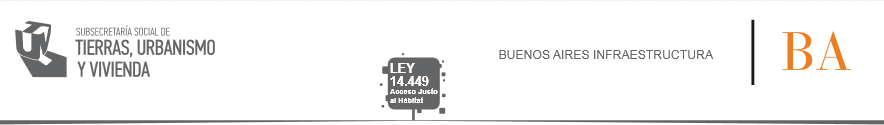
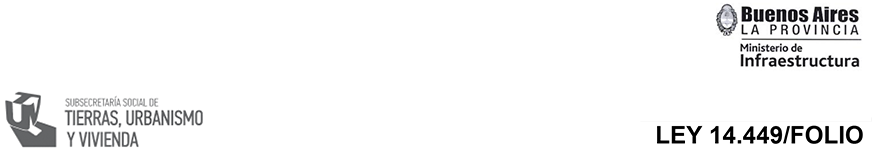
nuevo encabezado de foliocompleto y caratula

diff --git a/public/assets/css/print.css b/public/assets/css/print.css
@@ -248,7 +248,6 @@ ol {
 }
 
 .encabezado{
-
 }
 
 .pie_li{
@@ -257,4 +256,12 @@ ol {
 
 .li_caratula li {
   padding-top: 0px;
+}
+
+#anexo{
+  position: fixed;
+  top: 75px;
+  text-align: center;
+  width: 800px;
+  font-family:arial
 }

diff --git a/app/views/hoja1.tpl.php b/app/views/hoja1.tpl.php
@@ -1,9 +1,9 @@
 <page size="A4">
 	<div class="encabezado">
 			<img src="assets/images/header.png" width="100%">
+			<div id="anexo">ANEXO UNICO</div>
 		</div>
 	<div class="cont cond">		
-			<h1>Ley 14.449/folio</h1>
 			<h2>Datos de carga</h2>
 			
 			<small style="margin-left:105px">Cod. partido</small>

diff --git a/app/views/caratula.tpl.php b/app/views/caratula.tpl.php
@@ -15,7 +15,7 @@
 			<img src="assets/images/header.png" width="100%">
 		</div>
 		<div class="cont cond">
-			<h1>Ley 14.449/car&aacute;tula folio</h1>
+			
 			<h2>Datos de carga</h2>
 			
 			<div class="left">	
